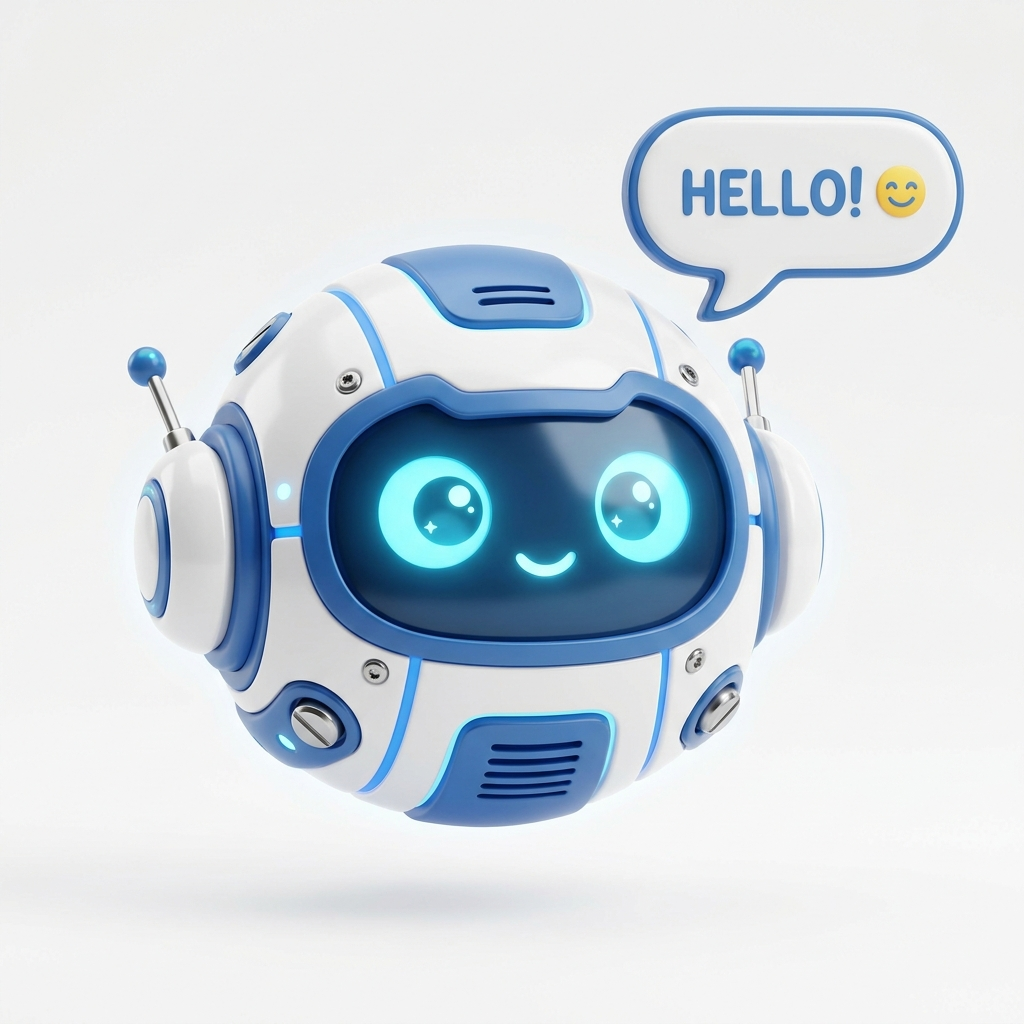
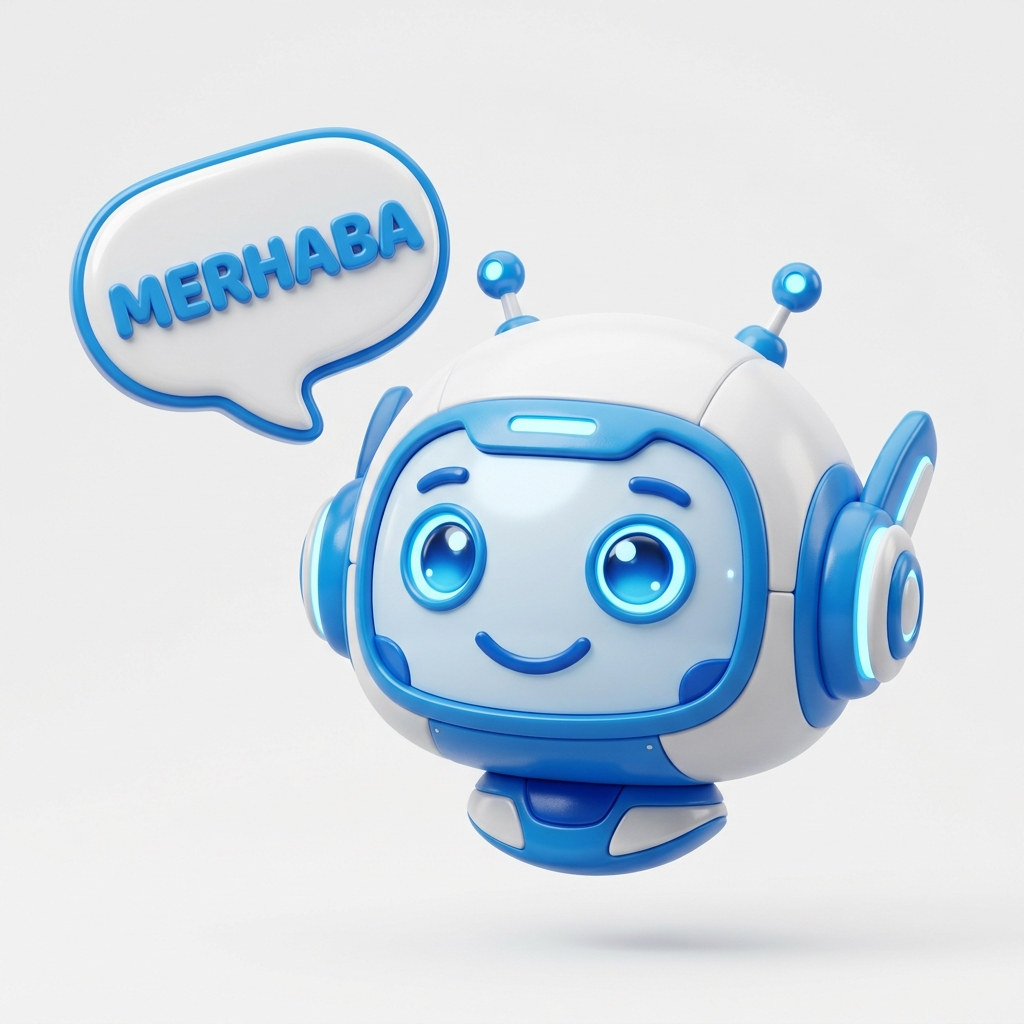
Replace robot with Pati character and add dynamic speech bubble in Game Showcase

diff --git a/src/components/sections/game-showcase.tsx b/src/components/sections/game-showcase.tsx
@@ -44,7 +44,8 @@ const games = [
     description: "Her gün pratik yap, Türkçe'ni geliştir! En yakın yapay zeka arkadaşınla sohbet et!",
     icon: <Bot className="w-6 h-6 text-white" />,
     color: "bg-blue-500",
-    image: "/images/child-mode/robot.png",
+    image: "/ai/oturuyor.png",
+    speechBubble: "MERHABA!",
     buttonText: "Sohbete Başla",
     buttonColor: "text-blue-600 bg-blue-50 hover:bg-blue-100",
   }
@@ -101,6 +102,11 @@ export default function GameShowcase() {
                   fill
                   className="object-contain drop-shadow-2xl group-hover:scale-110 transition-transform duration-500"
                 />
+                {(game as any).speechBubble && (
+                  <div className="absolute top-0 right-0 md:-right-2 bg-white text-blue-600 font-black text-sm md:text-base px-4 py-2 rounded-2xl rounded-bl-sm shadow-xl border-2 border-blue-100 animate-bounce z-30">
+                    {(game as any).speechBubble}
+                  </div>
+                )}
               </div>
 
               {/* Content */}
